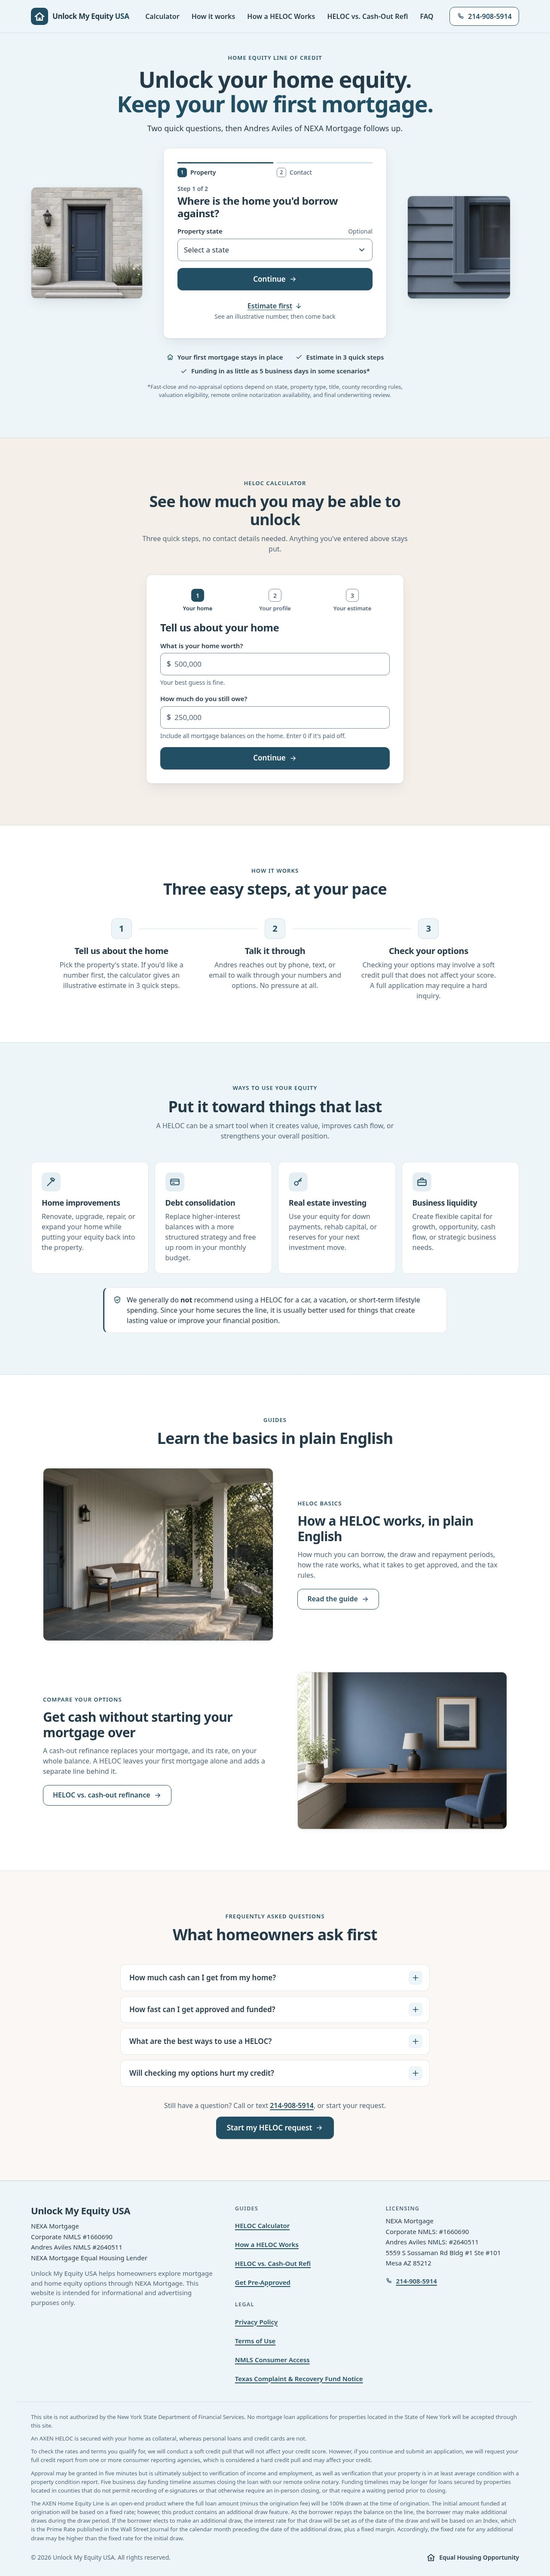
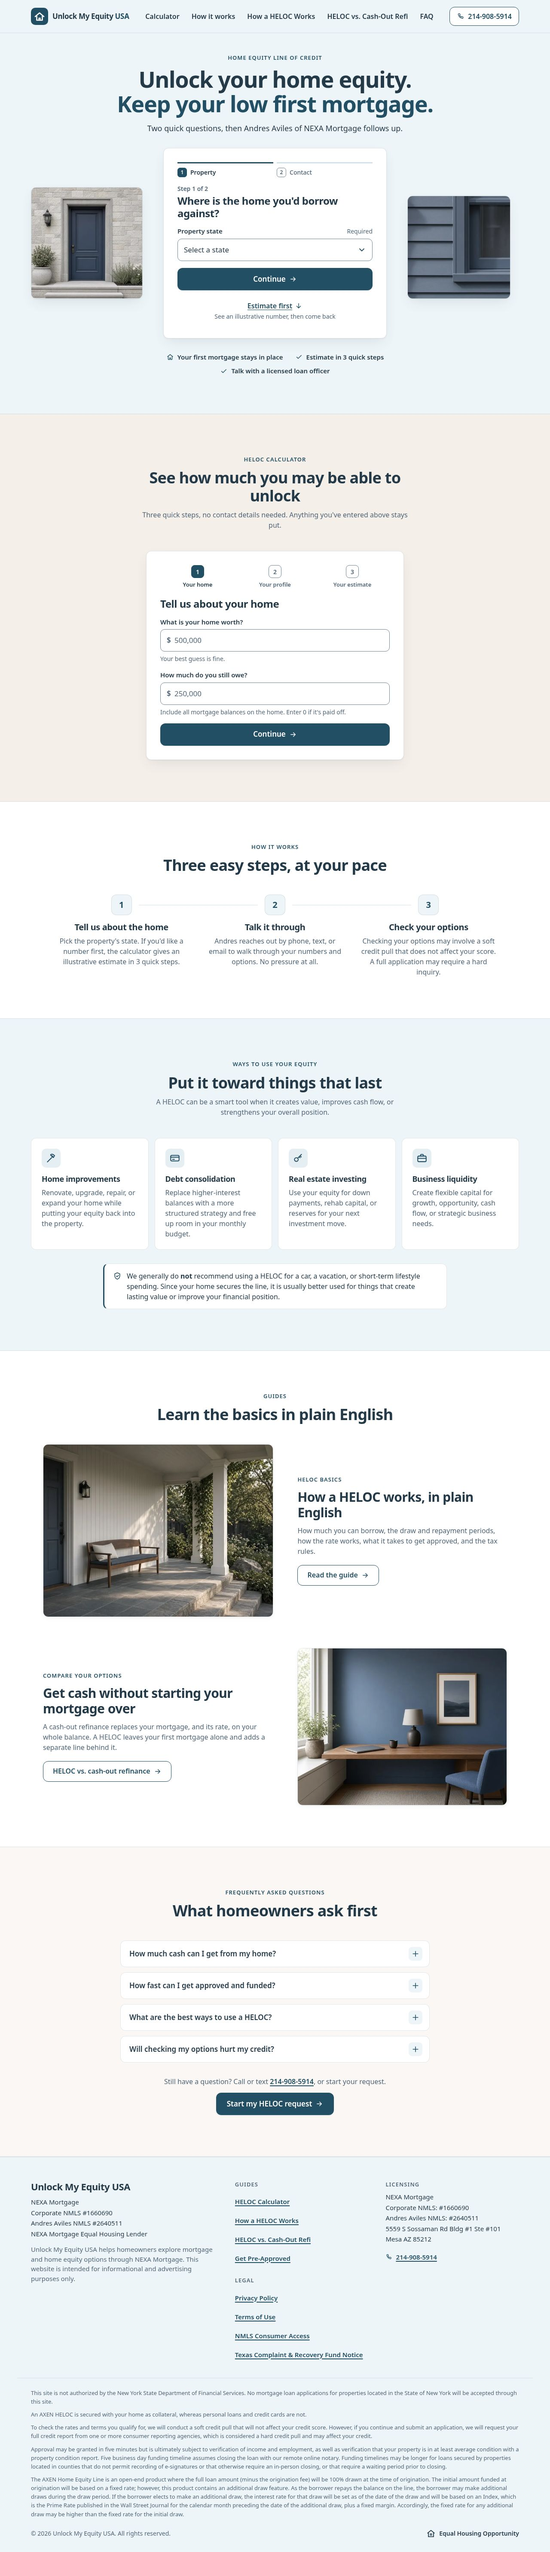
Final C4: required property state, secure-submit note, remove 5-business-day marketing claim

diff --git a/src/LeadForm.jsx b/src/LeadForm.jsx
@@ -10,6 +10,7 @@ import {
 import { Icon } from "./ui";
 
 const EMAIL_RE = /^[^\s@]+@[^\s@]+\.[^\s@]+$/;
+const STATE_ERROR = "Please select the property's state.";
 const FIELDS = ["name", "email", "phone", "state", "company"];
 
 function readFields(formEl) {
@@ -73,6 +74,9 @@ export function LeadForm({
   const step2HeadingRef = useRef(null);
   // Set once the visitor has moved between steps; enables focus moves and the fade.
   const [moved, setMoved] = useState(false);
+  // Where focus lands after a step change: the step heading, or the state
+  // select when Submit sends the visitor back to fix a missing state.
+  const focusStateRef = useRef(false);
   const uid = useId();
   const id = (k) => `${uid}-${k}`;
   const Heading = `h${headingLevel}`;
@@ -84,6 +88,9 @@ export function LeadForm({
     else setForm((f) => ({ ...f, state: value }));
   };
   const stateIneligible = INELIGIBLE_STATES.includes(stateValue);
+  // The state error only shows while no state is chosen, so picking one here
+  // or in the calculator (shared state) clears it and its aria-invalid.
+  const stateError = stateValue ? "" : errors.state;
   const hasEstimate = Boolean(estimate?.estimatedLine);
 
   const update = (key) => (e) => {
@@ -111,7 +118,13 @@ export function LeadForm({
 
   // Move focus to the new step's heading after Continue / Back.
   useEffect(() => {
-    if (moved) (step === 1 ? step1HeadingRef : step2HeadingRef).current?.focus();
+    if (step === 1 && focusStateRef.current) {
+      focusStateRef.current = false;
+      stateRef.current?.focus();
+      return;
+    }
+    if (!moved) return;
+    (step === 1 ? step1HeadingRef : step2HeadingRef).current?.focus();
   }, [moved, step, focusTick]);
 
   // Move focus to the confirmation so keyboard and screen reader users land on it.
@@ -119,7 +132,8 @@ export function LeadForm({
     if (status === "sent" || status === "fallback") doneRef.current?.focus();
   }, [status]);
 
-  function goTo(n) {
+  function goTo(n, { focusState = false } = {}) {
+    focusStateRef.current = focusState;
     setMoved(true);
     setStep(n);
     setFocusTick((t) => t + 1);
@@ -138,11 +152,24 @@ export function LeadForm({
 
   function onStateSelect(e) {
     setStateValue(e.target.value);
+    if (e.target.value && errors.state) setErrors((er) => ({ ...er, state: "" }));
   }
 
-  // Property state is optional, as on main: Continue always advances.
+  // The state shared with the calculator, or whatever the select shows.
+  const currentState = () => stateValue || stateRef.current?.value || "";
+
+  // Property state is required. NY/MA can still continue (with the notice).
   function onContinue() {
     if (!ready) return;
+    const chosen = currentState();
+    if (!chosen) {
+      setErrors({ state: STATE_ERROR });
+      // Focus after commit, once the error and aria-describedby are rendered.
+      focusStateRef.current = true;
+      setFocusTick((t) => t + 1);
+      return;
+    }
+    if (chosen !== stateValue) setStateValue(chosen);
     setErrors({});
     goTo(2);
   }
@@ -155,8 +182,15 @@ export function LeadForm({
     }
     // What's on screen is the source of truth.
     const values = mergeTyped(form, readFields(e.currentTarget));
+    // The state is the one shown in the select and the recap (shared with the
+    // calculator), never a stale copy from an earlier attempt.
+    values.state = stateValue;
     setForm(values);
-    values.state = stateValue || values.state;
+    if (!values.state) {
+      setErrors({ state: STATE_ERROR });
+      goTo(1, { focusState: true });
+      return;
+    }
     const next = {};
     if (!values.name.trim()) next.name = "Enter your full name.";
     if (!EMAIL_RE.test(values.email.trim())) {
@@ -277,10 +311,19 @@ export function LeadForm({
           Where is the home you'd borrow against?
         </Heading>
 
-        <div className="field">
+        <div className={`field ${stateError ? "has-error" : ""}`}>
           <label htmlFor={id("state")}>
-            Property state <span className="opt">Optional</span>
+            Property state <span className="opt">Required</span>
           </label>
+          {/* Persistent polite live region so the error is announced when it appears. */}
+          <div className="field-error-slot" aria-live="polite">
+            {stateError ? (
+              <span className="field-error" id={id("state-error")}>
+                <Icon name="alert" size={16} />
+                {stateError}
+              </span>
+            ) : null}
+          </div>
           <div className="select-wrap">
             <select
               id={id("state")}
@@ -289,6 +332,9 @@ export function LeadForm({
               autoComplete="address-level1"
               value={stateValue}
               onChange={onStateSelect}
+              required
+              aria-invalid={stateError ? true : undefined}
+              aria-describedby={stateError ? id("state-error") : undefined}
             >
               <option value="">Select a state</option>
               {STATES.map((s) => (
@@ -425,6 +471,10 @@ export function LeadForm({
           >
             {status === "sending" ? "Sending..." : "Talk Through My Options"}
           </button>
+          <p className="secure-note">
+            <Icon name="lock" size={16} />
+            Your information is sent securely.
+          </p>
           <p className="form-note consent" id={id("consent")}>
             By submitting, you agree that Andres Aviles (NEXA Mortgage, NMLS #2640511) may
             contact you by phone, text, or email about your request, including by automated

diff --git a/src/App.jsx b/src/App.jsx
@@ -4,7 +4,6 @@ import {
   INELIGIBLE_STATES,
   PHONE,
   PREAPPROVAL_LINK,
-  QUICK_TURN_STATES,
   STATES,
 } from "./site";
 import { Footer } from "./Footer";
@@ -55,20 +54,11 @@ function getEligibilityMessage(stateName) {
   return `Properties in ${stateName} may qualify, subject to product guidelines, underwriting, and state requirements.`;
 }
 
-function getFastFundingMessage(stateName) {
-  if (!stateName) {
-    return "Some borrowers may qualify for funding in as little as 5 business days without an appraisal, depending on property, state, remote online notarization availability, and final underwriting.";
+function getTimingMessage(stateName) {
+  if (stateName && INELIGIBLE_STATES.includes(stateName)) {
+    return `${stateName} properties are not eligible through this site.`;
   }
-
-  if (INELIGIBLE_STATES.includes(stateName)) {
-    return `${stateName} properties are not eligible through this site, so fast-funding options are not available here.`;
-  }
-
-  if (QUICK_TURN_STATES.includes(stateName)) {
-    return `Properties in ${stateName} may qualify for funding in as little as 5 business days without an appraisal in some scenarios, depending on property review, county recording rules, remote online notarization eligibility, and underwriting.`;
-  }
-
-  return `Funding timelines in ${stateName} can vary based on state requirements, county recording rules, property type, title, and underwriting. Some files may still move quickly, but additional steps may be required.`;
+  return "Funding timelines vary by state, property review, county recording rules, remote online notarization availability and final underwriting.";
 }
 
 const CALC_STEPS = ["Your home", "Your profile", "Your estimate"];
@@ -155,7 +145,7 @@ export default function App() {
       propertyTypeLabel:
         occupancyType === "owner" ? "Primary Residence" : "Investment Property",
       creditMessage: getCreditMessage(creditRange),
-      fastFundingMessage: getFastFundingMessage(propertyState),
+      timingMessage: getTimingMessage(propertyState),
       eligibilityMessage: getEligibilityMessage(propertyState),
     };
   }, [
@@ -282,14 +272,9 @@ export default function App() {
               </li>
               <li>
                 <Icon name="check" size={18} />
-                Funding in as little as 5 business days in some scenarios*
+                Talk with a licensed loan officer
               </li>
             </ul>
-            <p className="hero-footnote">
-              *Fast-close and no-appraisal options depend on state, property type, title,
-              county recording rules, valuation eligibility, remote online notarization
-              availability, and final underwriting review.
-            </p>
           </div>
         </section>
 
@@ -581,7 +566,7 @@ export default function App() {
                   <details className="calc-more">
                     <summary>Funding timing and credit notes</summary>
                     <p>
-                      <strong>Fast funding note:</strong> {resultSummary.fastFundingMessage}
+                      <strong>Timing note:</strong> {resultSummary.timingMessage}
                     </p>
                     <p>
                       <strong>Credit insight:</strong> {resultSummary.creditMessage}

diff --git a/src/index.css b/src/index.css
@@ -432,14 +432,6 @@ select {
   color: var(--teal);
 }
 
-.hero-footnote {
-  max-width: 640px;
-  margin: 16px auto 0;
-  font-size: 13px;
-  line-height: 1.5;
-  color: var(--slate);
-}
-
 /* ---------------- Lead form (stepped) ---------------- */
 
 /* Labeled two-step indicator: a bar over each label, filled when reached.
@@ -563,7 +555,8 @@ select {
 
 /* Errors sit between the label and the field, outside the <label>, so screen
    readers hear them once (via aria-describedby) instead of twice. */
-.field > .field-error {
+.field > .field-error,
+.field-error-slot > .field-error {
   display: flex;
   margin: -2px 0 6px;
 }
@@ -753,6 +746,23 @@ select:focus-visible {
 
 .submit-row {
   margin-top: 4px;
+}
+
+/* Compact trust line under the submit button. */
+.secure-note {
+  display: flex;
+  align-items: center;
+  justify-content: center;
+  gap: 6px;
+  margin-top: 10px;
+  font-size: 14px;
+  line-height: 1.5;
+  color: var(--slate); /* #506577 */
+}
+
+.secure-note .icon {
+  flex: none;
+  color: var(--teal); /* #234F64 */
 }
 
 .form-note {

diff --git a/src/site.js b/src/site.js
@@ -38,7 +38,7 @@ export const FAQS = [
   {
     question: "How fast can I get approved and funded?",
     answer:
-      "Some borrowers may qualify for approval in minutes and funding in as little as 5 business days. Timing depends on state, title, property review, county recording rules, remote online notarization, and underwriting.",
+      "Timing varies. It depends on your state, title, property review, county recording rules, whether remote online notarization is available, and underwriting. Andres can walk you through what to expect for your property.",
   },
   {
     question: "What are the best ways to use a HELOC?",
@@ -104,20 +104,6 @@ export const STATES = [
   "West Virginia",
   "Wisconsin",
   "Wyoming",
-];
-
-// States where fast (about 5 business day) funding may be possible.
-export const QUICK_TURN_STATES = [
-  "Arizona",
-  "California",
-  "Colorado",
-  "Florida",
-  "Idaho",
-  "Nevada",
-  "Oregon",
-  "Texas",
-  "Utah",
-  "Washington",
 ];
 
 // Properties in these states are not eligible through this site.

diff --git a/src/routes.js b/src/routes.js
@@ -74,9 +74,9 @@ export const routes = [
     file: "index.html",
     title: "HELOC Calculator: See How Much Equity You Can Unlock | Unlock My Equity USA",
     description:
-      "Estimate how much cash you could access with a HELOC while keeping your low first mortgage. Fast approvals, funding in as little as 5 business days in some scenarios. Talk with Andres Aviles, NMLS #2640511.",
+      "Estimate how much cash you could access with a HELOC while keeping your low first mortgage. Talk with Andres Aviles, NMLS #2640511.",
     ogDescription:
-      "Estimate your HELOC in under a minute and access your home equity without refinancing your first mortgage.",
+      "Estimate your HELOC in 3 quick steps and access your home equity without refinancing your first mortgage.",
     Component: App,
     jsonLd: [organization, faqPage(FAQS)],
   },

diff --git a/src/ui.jsx b/src/ui.jsx
@@ -71,6 +71,12 @@ const PATHS = {
       <path d="M9 7.5V6a2 2 0 012-2h2a2 2 0 012 2v1.5M3 12.5h18" />
     </>
   ),
+  lock: (
+    <>
+      <rect x="5" y="10.5" width="14" height="10" rx="2" />
+      <path d="M8 10.5V8a4 4 0 018 0v2.5" />
+    </>
+  ),
   chat: <path d="M20 12a7.5 7.5 0 01-11 6.6L4 20l1.4-4.6A7.5 7.5 0 1120 12z" />,
   doc: (
     <>
